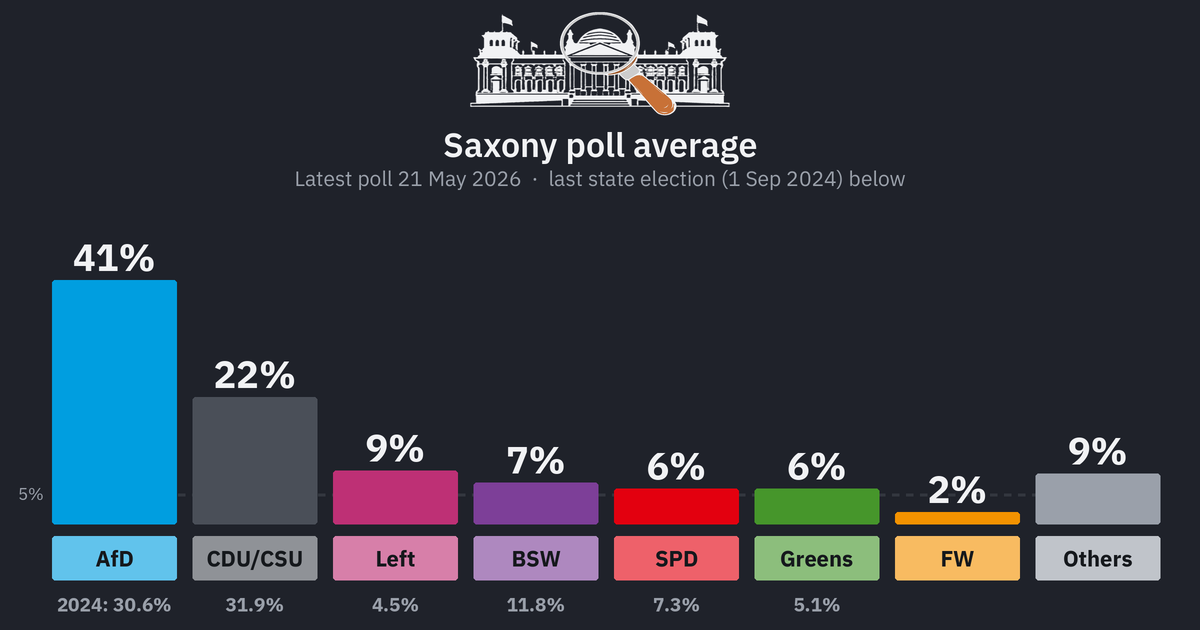
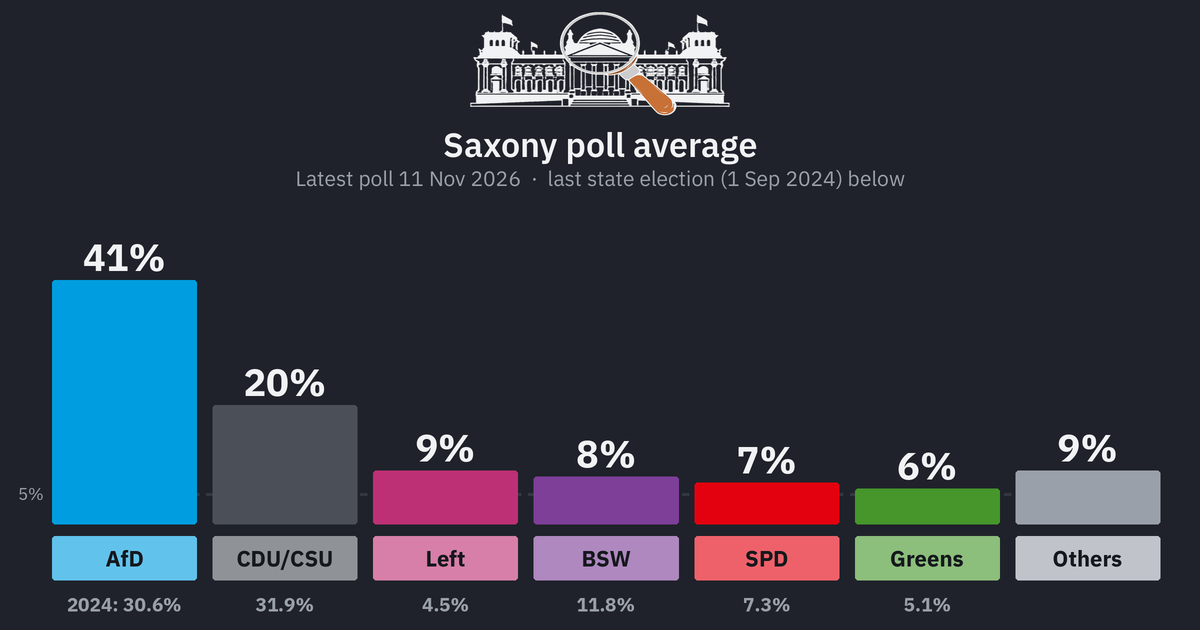
Update embed image

Changed region(s): [[0.0308, 0.3619, 0.9558, 0.9952], [0.2467, 0.2714, 0.7708, 0.3016]]

diff --git a/state/SN/index.html b/state/SN/index.html
@@ -15,8 +15,8 @@
 <meta property="og:title" content="KanzlerCheck: Saxony state polls">
 <meta property="og:description" content="German federal election polling average, Bundestag seat projection and government approval. Source: dawum.de">
 <meta property="og:url" content="https://kanzlercheck.github.io/state/SN/">
-<meta property="og:image" content="https://kanzlercheck.github.io/img/og/state-SN.png?v=20260521">
-<meta property="og:image:secure_url" content="https://kanzlercheck.github.io/img/og/state-SN.png?v=20260521">
+<meta property="og:image" content="https://kanzlercheck.github.io/img/og/state-SN.png?v=20261111">
+<meta property="og:image:secure_url" content="https://kanzlercheck.github.io/img/og/state-SN.png?v=20261111">
 <meta property="og:image:type" content="image/png">
 <meta property="og:image:width" content="1200">
 <meta property="og:image:height" content="630">
@@ -24,7 +24,7 @@
 <meta name="twitter:card" content="summary_large_image">
 <meta name="twitter:title" content="KanzlerCheck: Saxony state polls">
 <meta name="twitter:description" content="German federal election polling average, Bundestag seat projection and government approval. Source: dawum.de">
-<meta name="twitter:image" content="https://kanzlercheck.github.io/img/og/state-SN.png?v=20260521">
+<meta name="twitter:image" content="https://kanzlercheck.github.io/img/og/state-SN.png?v=20261111">
 <link rel="canonical" href="https://kanzlercheck.github.io/state/SN/">
 <link rel="stylesheet" href="/css/style.css?v=b28091940">
 <script>/* new deploy? the page itself may come from the browser cache (GitHub Pages: 10 min) - compare with /version.json and reload once, like Ctrl+R */(function(){var l=document.querySelector('link[href*="/css/style.css"]'),cur=l?(l.getAttribute("href").split("?v=")[1]||""):"";if(!cur)return;fetch("/version.json",{cache:"no-store"}).then(function(r){return r.ok?r.json():null}).then(function(j){if(!j||!j.v||j.v===cur)return;var k="kc-build";try{if(sessionStorage.getItem(k)===j.v)return;sessionStorage.setItem(k,j.v)}catch(e){return}location.reload()}).catch(function(){})})()</script>
